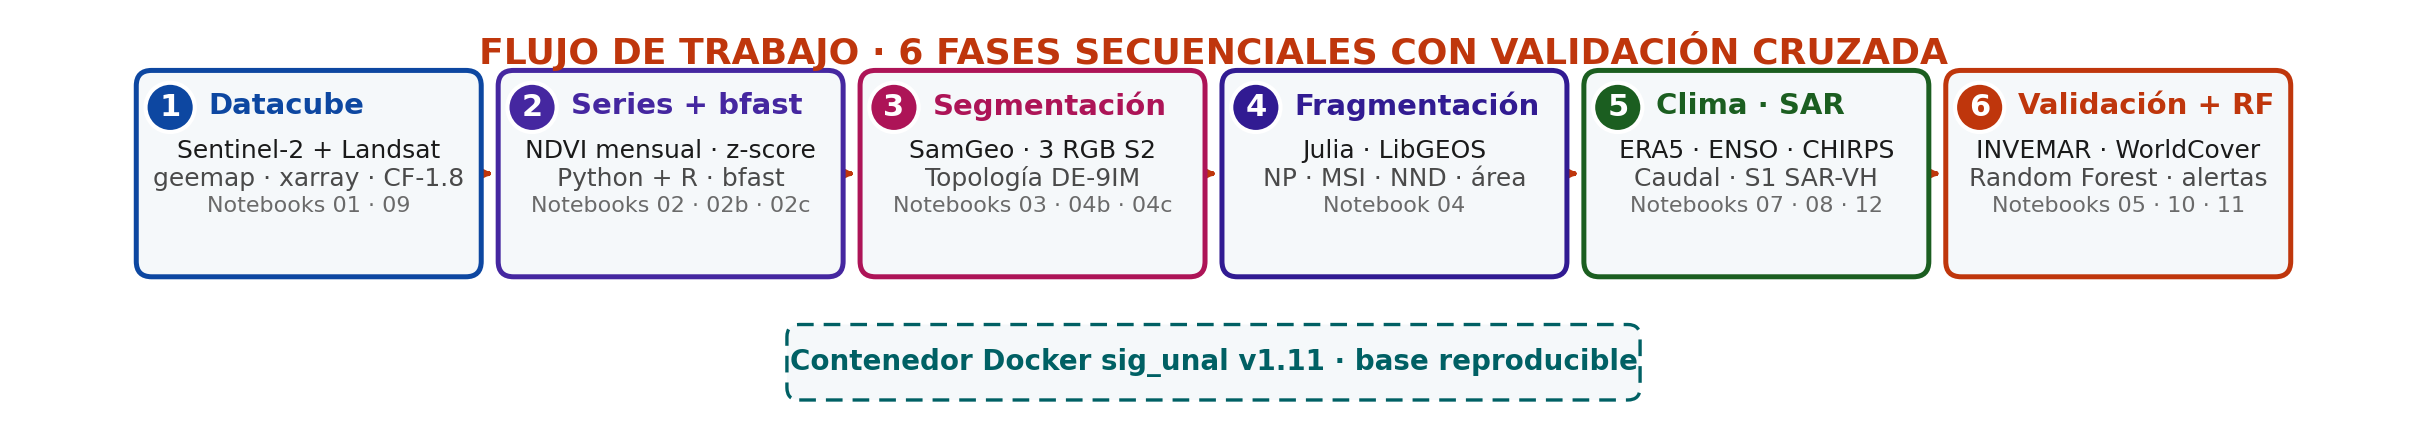
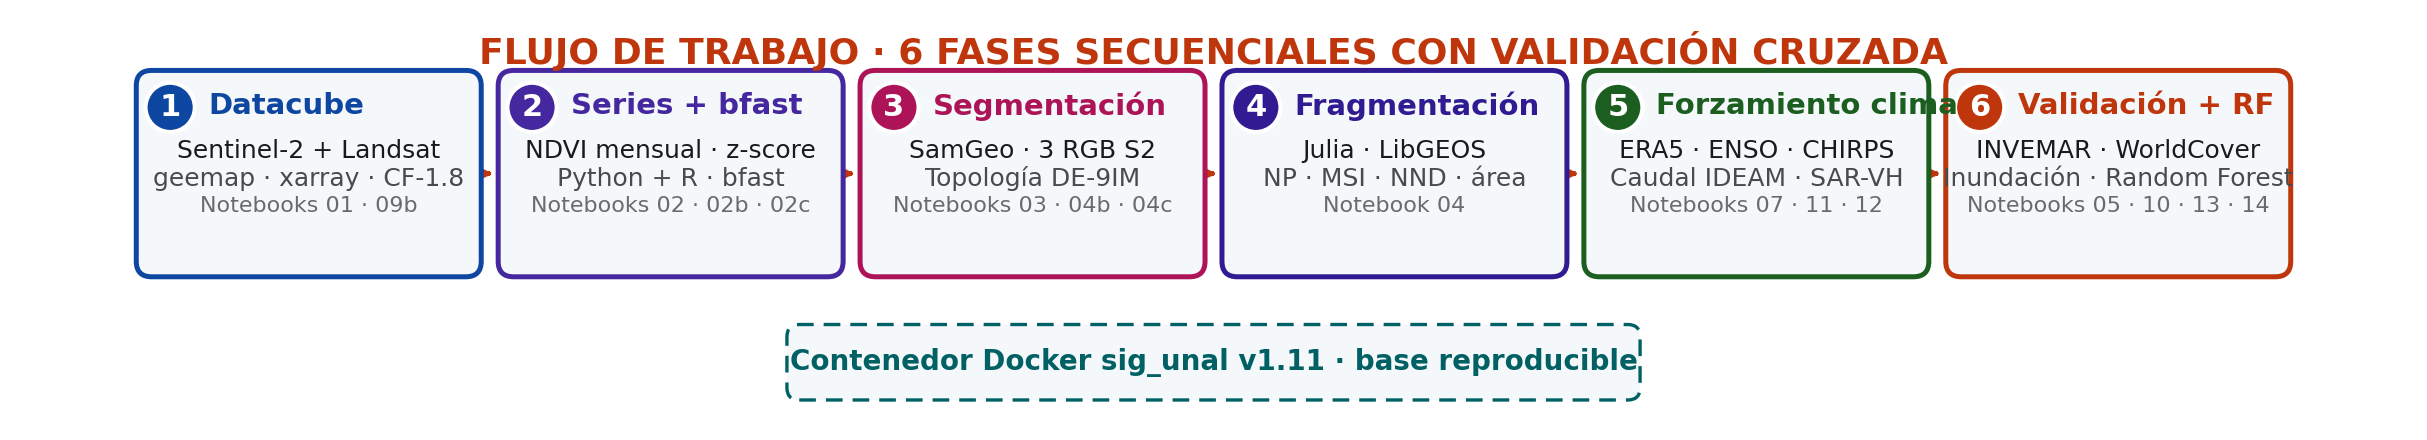
flujo_metodologia: reorganiza notebooks por fase real (09b en datacube; 07 11 12 en clima/SAR-VH; 05 10 13 14 en validación + inundación) + caption sin promesa de 'bit a bit'

Changed region(s): [[0.6489, 0.3841, 0.958, 0.5023], [0.6799, 0.2068, 0.8035, 0.2659], [0.0618, 0.4432, 0.1854, 0.5023]]

diff --git a/docs/dashboard.html b/docs/dashboard.html
@@ -1121,7 +1121,7 @@ a:focus-visible, button:focus-visible {
       <div class="card-head"><h2 class="card-title">Flujo de la metodología · de la imagen al indicador</h2></div>
       <div class="card-body figure">
         <img src="outputs/figures/flujo_metodologia.png" alt="Flujo de metodología">
-        <p class="caption">Flujo metodológico en seis fases secuenciales: ingesta GEE, construcción del datacube, análisis de series BFAST, segmentación SamGeo + Random Forest, métricas de fragmentación Julia, validación cruzada SAR + INVEMAR. Validación entre Python, R y Julia en cada fase. Toda la cadena se ejecuta dentro de un contenedor Docker que garantiza reproducibilidad bit a bit.</p>
+        <p class="caption">Flujo metodológico en seis fases secuenciales: ingesta GEE, construcción del datacube, análisis de series con BFAST, segmentación SamGeo con métricas topológicas DE-9IM, fragmentación en Julia, forzamiento climático e hidrológico, y validación cartográfica frente a INVEMAR 1:25.000 y ESA WorldCover. Pruebas cruzadas Python ↔ R ↔ Julia verifican la convergencia numérica entre implementaciones. Toda la cadena corre dentro de un contenedor Docker reproducible.</p>
       </div>
     </div>
 

diff --git a/src/python/generar_flujo_metodologia.py b/src/python/generar_flujo_metodologia.py
@@ -29,7 +29,7 @@ BOX_W, BOX_H = 2.20, 1.30  # caja de fase
 PHASES = [
     {'n': '1', 'color': '#0d47a1', 'title': 'Datacube',
      'lines': ['Sentinel-2 + Landsat', 'geemap · xarray · CF-1.8',
-               'Notebooks 01 · 09']},
+               'Notebooks 01 · 09b']},
     {'n': '2', 'color': '#4527a0', 'title': 'Series + bfast',
      'lines': ['NDVI mensual · z-score', 'Python + R · bfast',
                'Notebooks 02 · 02b · 02c']},
@@ -39,12 +39,12 @@ PHASES = [
     {'n': '4', 'color': '#311b92', 'title': 'Fragmentación',
      'lines': ['Julia · LibGEOS', 'NP · MSI · NND · área',
                'Notebook 04']},
-    {'n': '5', 'color': '#1b5e20', 'title': 'Clima · SAR',
-     'lines': ['ERA5 · ENSO · CHIRPS', 'Caudal · S1 SAR-VH',
-               'Notebooks 07 · 08 · 12']},
+    {'n': '5', 'color': '#1b5e20', 'title': 'Forzamiento clima',
+     'lines': ['ERA5 · ENSO · CHIRPS', 'Caudal IDEAM · SAR-VH',
+               'Notebooks 07 · 11 · 12']},
     {'n': '6', 'color': '#bf360c', 'title': 'Validación + RF',
-     'lines': ['INVEMAR · WorldCover', 'Random Forest · alertas',
-               'Notebooks 05 · 10 · 11']},
+     'lines': ['INVEMAR · WorldCover', 'Inundación · Random Forest',
+               'Notebooks 05 · 10 · 13 · 14']},
 ]
 
 # ---- Render ----
